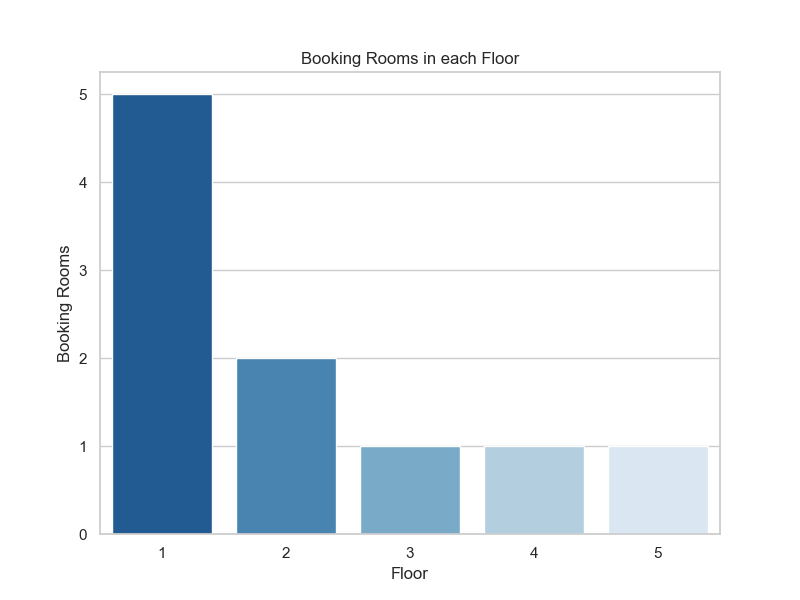
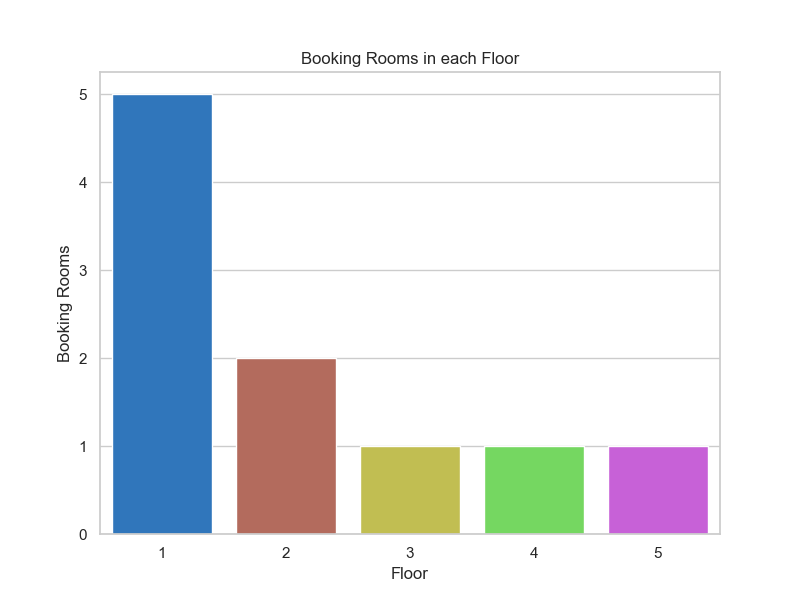
add multi series chart from changelog model into pdf

Changed region(s): [[0.125, 0.15, 0.9062, 0.9]]

diff --git a/backend/api/viewsets/bookings_viewset.py b/backend/api/viewsets/bookings_viewset.py
@@ -13,7 +13,7 @@ from rest_framework.response import Response
 from api.authentication import BearerAuthentication
 from api.models import Booking, Guest, Room
 from api.serializers import BookingSerializer
-from api.utils import get_bookings_row, get_bookings_list, set_chart_bookings
+from api.utils import get_bookings_row, get_bookings_list, set_chart_bookings, set_changed_log_charts
 
 from xhtml2pdf import pisa
 from reportlab.lib.pagesizes import letter
@@ -134,33 +134,21 @@ class BookingViewSets(viewsets.ModelViewSet):
 
         elements.append(Spacer(1, 0.5*inch))
         elements.append(body)
-        elements.append(Spacer(1, 0.2*inch))
+        elements.append(Spacer(1, 0.5*inch))
+
+        set_changed_log_charts()
+        chart_log = Image("./api/static/chart_log.png", width=500, height=300)
+        elements.append(chart_log)
+
+        elements.append(Spacer(1, 0.3*inch))
         elements.append(body)
-
-        # elements.append(PageBreak())
-        # elements.append(title)
-        # elements.append(Spacer(1, 0.5*inch))
-        # elements.append(img)
-        # elements.append(Spacer(1, 0.3*inch))
-        # elements.append(body)
-        # elements.append(Spacer(1, 0.5*inch))
-        # elements.append(table)
-
-        # elements.append(PageBreak())
-        # elements.append(title)
-        # elements.append(Spacer(1, 0.3*inch))
-        # elements.append(chart)
-        # elements.append(Spacer(1, 0.5*inch))
-        # elements.append(body)
-        # elements.append(Spacer(1, 0.5*inch))
-        # elements.append(table)
         
         doc.build(elements, onFirstPage=_create_header_footer, onLaterPages=_create_header_footer)
 
         buf.seek(0)
 
         response = FileResponse(buf, content_type="application/pdf")
-        response["Content-Disposition"] = "attachment; filename=bookings_list.pdf"
+        response["Content-Disposition"] = "filename=bookings_list.pdf"
         return response
 
 class BookingUserViewSets(viewsets.ReadOnlyModelViewSet):

diff --git a/backend/api/middleware.py b/backend/api/middleware.py
@@ -26,18 +26,18 @@ class ApiMiddleware(MiddlewareMixin):
             raise ValidationError("Access Denied. Your IP is not allowed")
         
         # check request limit: In this case, lets make request limit into 5 per minute
-        # rate_limit = 5
-        # key = f"ratelimit_{ip_address}"
-        # count = cache.get(key)
+        rate_limit = 30
+        key = f"ratelimit_{ip_address}"
+        count = cache.get(key)
 
-        # if count is None:
-        #     count = 1
-        #     cache.set(key, count, 60)
-        # else:
-        #     count += 1
-        #     cache.set(key, count, 60)
+        if count is None:
+            count = 1
+            cache.set(key, count, 60)
+        else:
+            count += 1
+            cache.set(key, count, 60)
         
-        # if count > rate_limit:
-        #     raise ValidationError("Rate limit exceeded. Try again later")
+        if count > rate_limit:
+            raise ValidationError("Rate limit exceeded. Try again later")
 
         return response

diff --git a/backend/api/utils/changed_log_utils.py b/backend/api/utils/changed_log_utils.py
@@ -1,0 +1,16 @@
+from api.models import ChangedLog
+
+import pandas as pd
+import seaborn as sns
+
+def set_changed_log_charts():
+    changed_logs = ChangedLog.objects.all().values("model", "action")
+    df = pd.DataFrame(changed_logs)
+    _render_changed_log_charts(df)
+
+def _render_changed_log_charts(df):
+    custom_palette = ["#1976d2", "#c2614e", "#d4cf3f"]
+    g = sns.catplot(x="action", data=df, hue="model", kind="count", palette=custom_palette, aspect=2, legend_out=False)
+    g.set_axis_labels("Action", "Count")
+    g.ax.set_title("Count of Actions by Models", fontdict={"fontsize": 16, "fontweight": "bold"})
+    g.savefig("./api/static/chart_log.png")

diff --git a/backend/api/utils/bookings_utils.py b/backend/api/utils/bookings_utils.py
@@ -45,9 +45,10 @@ def set_chart_bookings():
     _render_chart_bookings(floors, [bookings_room_in_each_floor[floor] for floor in floors])    
 
 def _render_chart_bookings(categories, values):
+    custom_palette = ["#1976d2", "#c2614e", "#d4cf3f", "#68eb4d", "#d64deb"]
     sns.set(style="whitegrid")
     plt.figure(figsize=(8,6))
-    sns.barplot(x=categories, y=values, palette="Blues_r")
+    sns.barplot(x=categories, y=values, palette=custom_palette)
 
     plt.xlabel("Floor")
     plt.ylabel("Booking Rooms")

diff --git a/backend/api/utils/__init__.py b/backend/api/utils/__init__.py
@@ -1,1 +1,2 @@
 from .bookings_utils import *
+from .changed_log_utils import *
